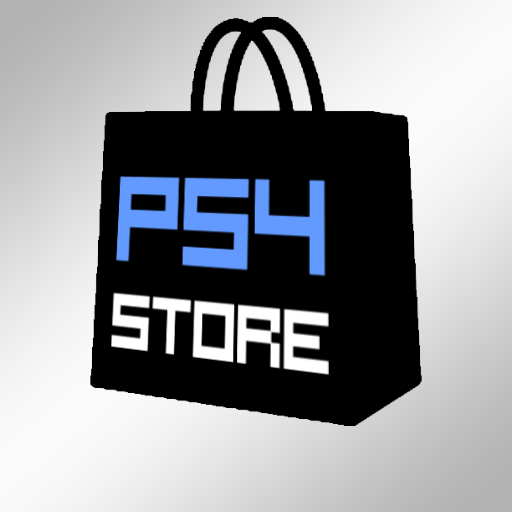
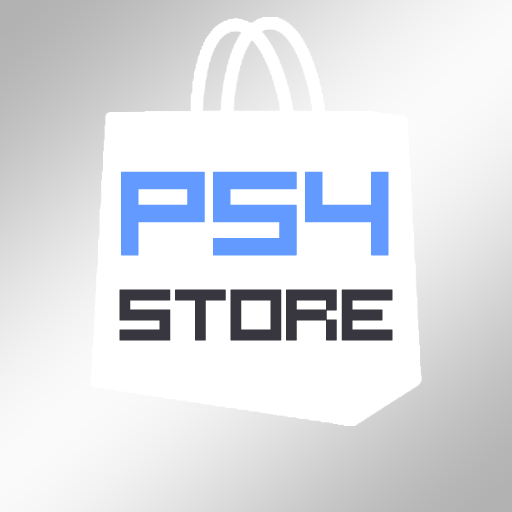
Новая иконка приложения
Claude-Session: https://claude.ai/code/session_01TqUMq5UdRBLRkZrP7PA48P

diff --git a/src/version.h b/src/version.h
@@ -2,4 +2,4 @@
 
 // Единственное место с версией: служба и (позже) приложение PKG берут её отсюда.
 // Последняя цифра растёт на каждой пересборке.
-#define APP_VERSION "0.1.0.47"
+#define APP_VERSION "0.1.0.48"
